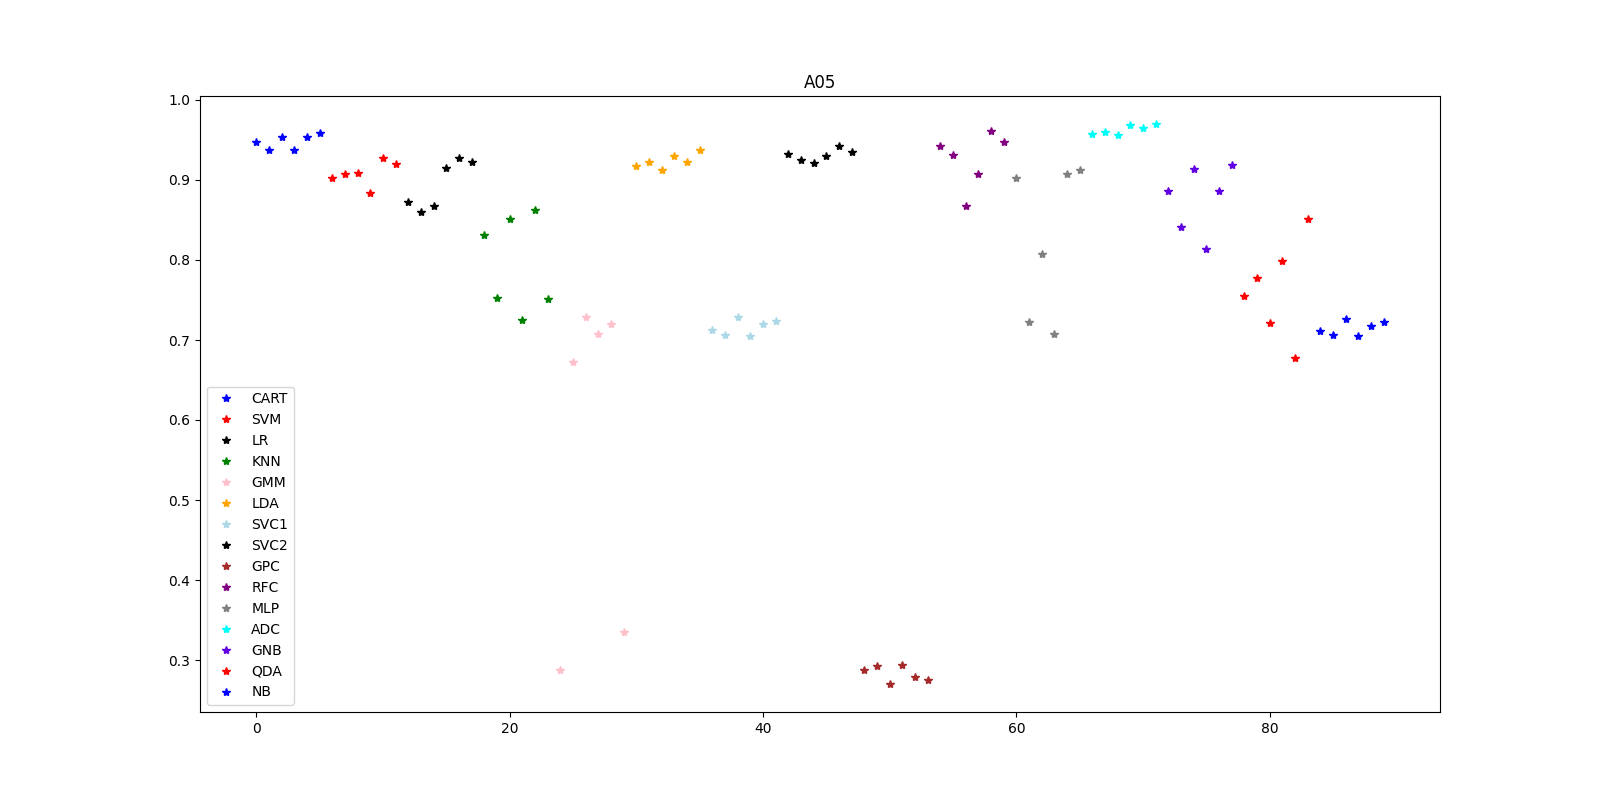
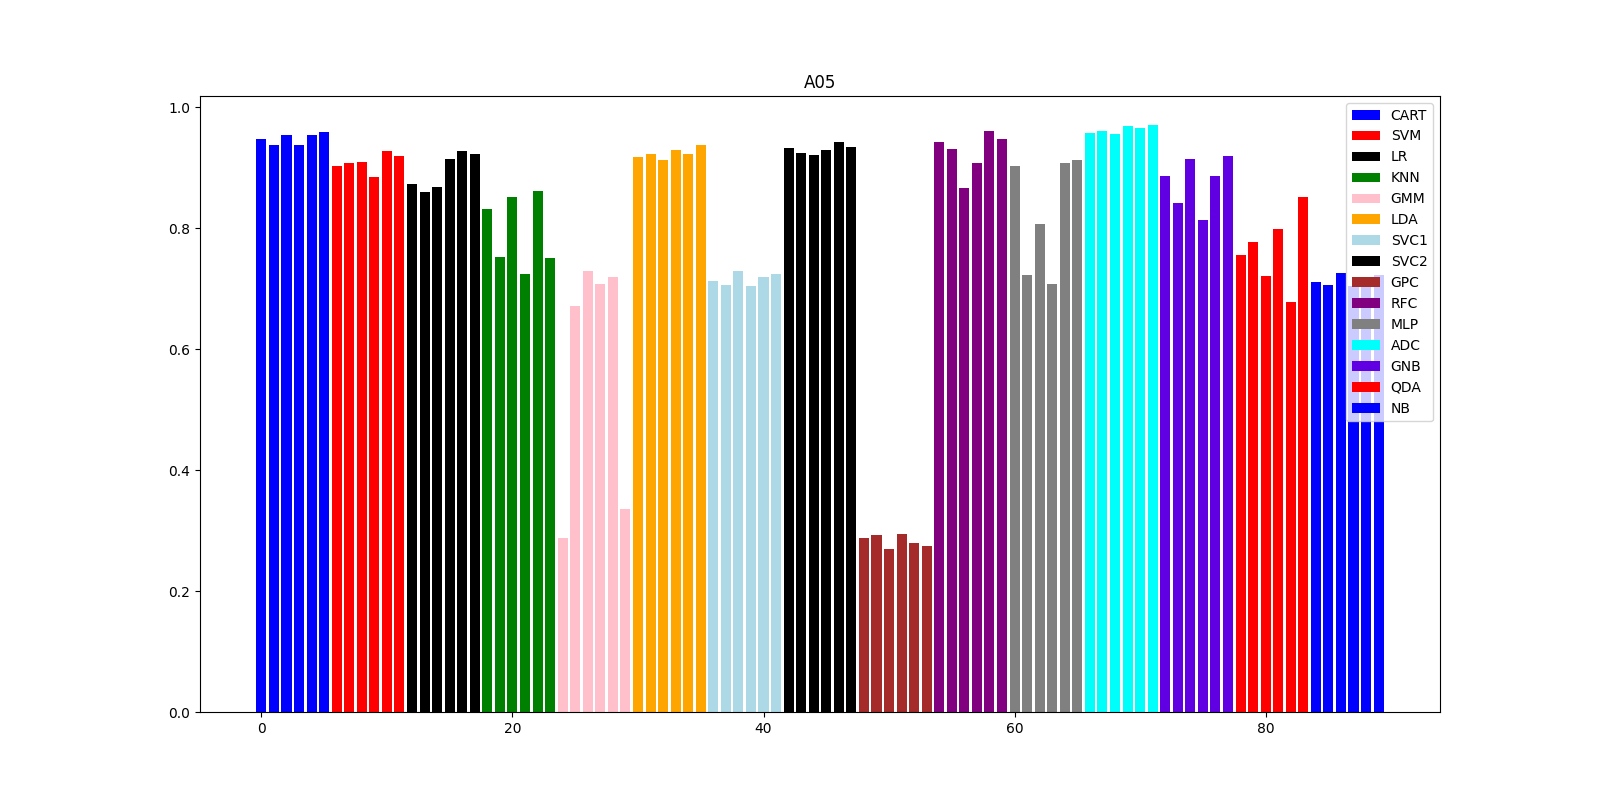
chore: use barplot

diff --git a/plot_accuracies.py b/plot_accuracies.py
@@ -116,7 +116,7 @@ def parallel_plot(system_id_idx: int) -> None:
         _to = 6 * (model_idx+1)
         curr_res = res[_from:_to]
 
-        plt.plot([idx + _from for idx in range(len(curr_res))], curr_res, '*', color=colors[model_idx])
+        plt.bar([idx + _from for idx in range(len(curr_res))], curr_res, color=colors[model_idx])
 
     plt.legend(labels=models)
     plt.savefig("system_ids_accuracies/" + system_id + ".png")
